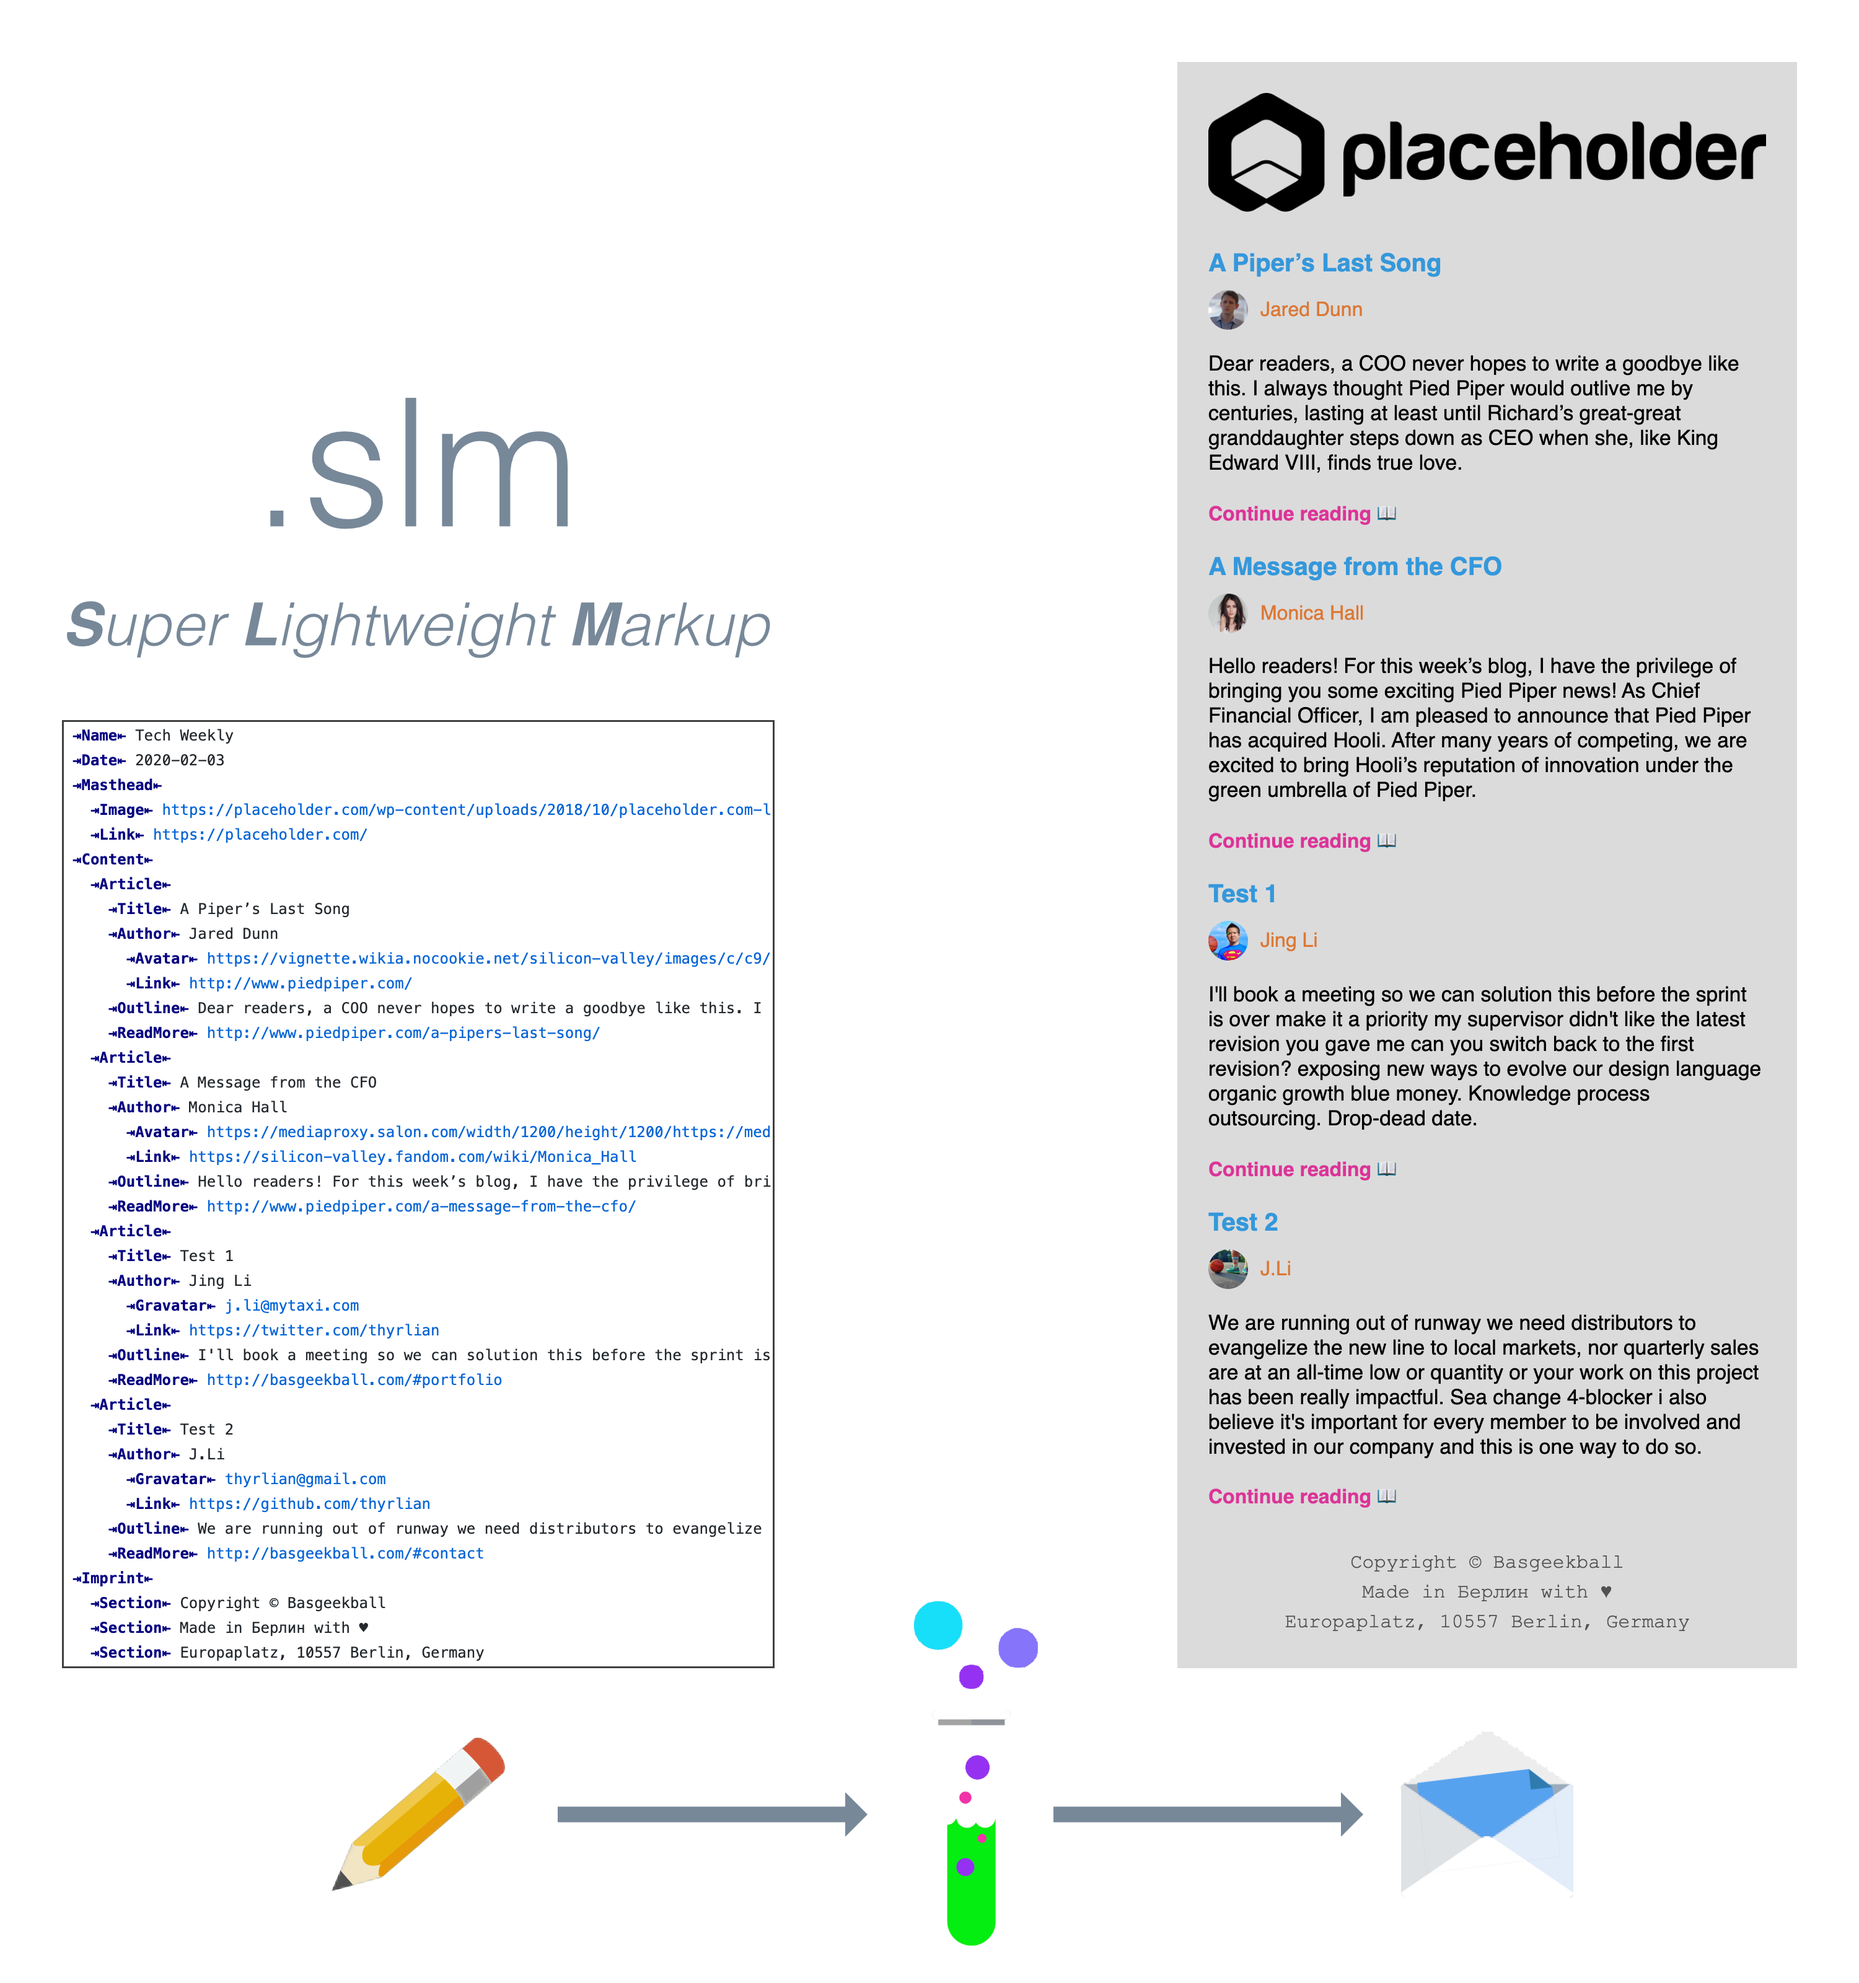
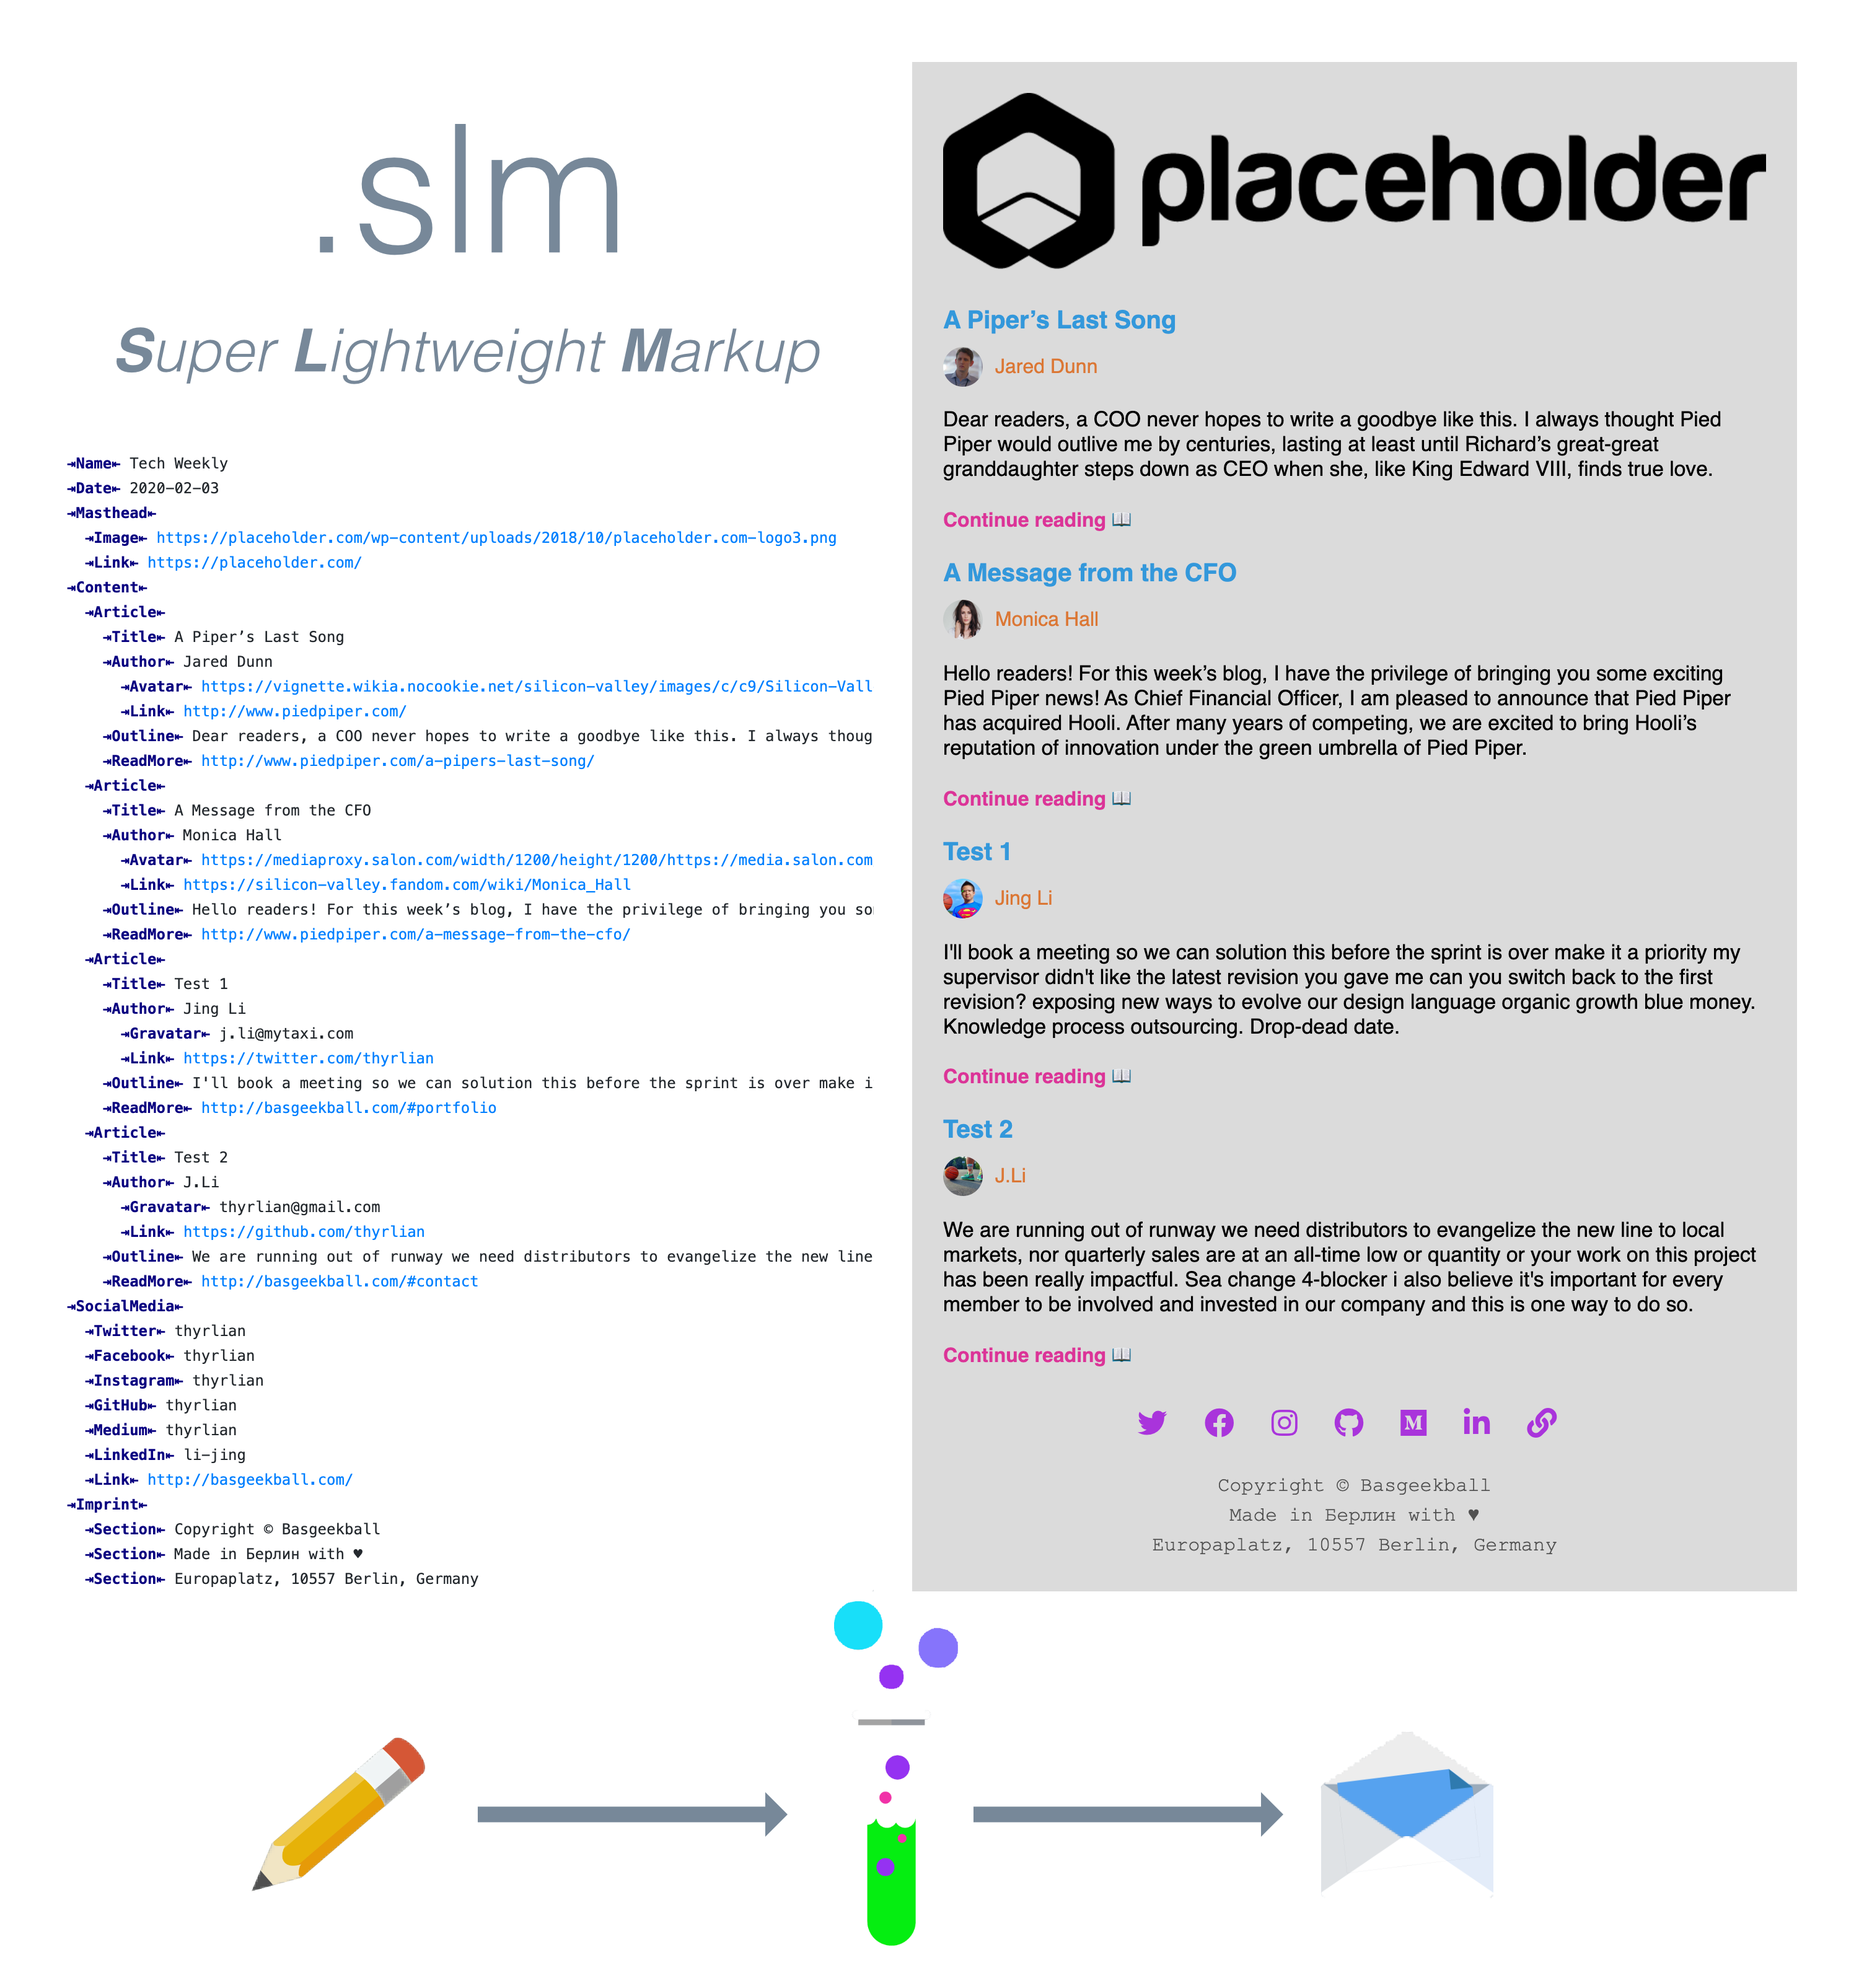
Refactor social media part

diff --git a/assets/css/main.css b/assets/css/main.css
@@ -82,6 +82,14 @@ article .author span {
   text-decoration: none;
 }
 
+#social-media a:link, #social-media a:visited {
+  color: #a934db;
+}
+
+#social-media a:hover {
+  color: #dbc234;
+}
+
 #imprint {
   text-align: center;
   line-height: 150%;

diff --git a/lib/newsletter/factory.rb b/lib/newsletter/factory.rb
@@ -110,27 +110,10 @@ module Newsletter
       fragment_social_media_script = parse_fragment('social-media-script.html')
       @doc.at('head').add_child(fragment_social_media_script)
       fragment_social_media = parse_fragment('social-media.html')
+      social_media_section = fragment_social_media.css('#social-media').first
       node[:children].each do |media, username|
-        element = nil
-        case media
-        when "Twitter"
-          element = %Q(<a href="https://twitter.com/#{username[:data]}"><i class="fab fa-twitter"> </i></a>)
-        when "Facebook"
-          element = %Q(<a href="https://www.facebook.com/#{username[:data]}"><i class="fab fa-facebook"> </i></a>)
-        when "Instagram"
-          element = %Q(<a href="https://www.instagram.com/#{username[:data]}"><i class="fab fa-instagram"> </i></a>)
-        when "GitHub"
-          element = %Q(<a href="https://github.com/#{username[:data]}"><i class="fab fa-github"> </i></a>)
-        when "Medium"
-          element = %Q(<a href="https://medium.com/@#{username[:data]}"><i class="fab fa-medium"> </i></a>)
-        when "LinkedIn"
-          element = %Q(<a href="https://www.linkedin.com/in/#{username[:data]}"><i class="fab fa-linkedin-in"> </i></a>)
-        when "Link"
-          element = %Q(<a href="#{username[:data]}"><i class="fas fa-link"> </i></a>)
-        end
-        unless element.nil?
-          fragment_social_media.css('#social-media').first.add_child(element)
-        end
+        element = SocialMedia.send("create_#{media.downcase}_link", username[:data])
+        social_media_section.add_child(element)
       end
       @doc.at('#content').add_next_sibling(fragment_social_media)
     end

diff --git a/lib/newsletter/plugins/social_media.rb b/lib/newsletter/plugins/social_media.rb
@@ -1,0 +1,51 @@
+module Newsletter
+  class SocialMedia
+    class << self
+      def create_twitter_link(username)
+        url = "https://twitter.com/#{username}"
+        icon_class = 'fab fa-twitter'
+        return create_icon_link(url, icon_class)
+      end
+
+      def create_facebook_link(username)
+        url = "https://www.facebook.com/#{username}"
+        icon_class = 'fab fa-facebook'
+        return create_icon_link(url, icon_class)
+      end
+
+      def create_instagram_link(username)
+        url = "https://www.instagram.com/#{username}"
+        icon_class = 'fab fa-instagram'
+        return create_icon_link(url, icon_class)
+      end
+
+      def create_github_link(username)
+        url = "https://github.com/#{username}"
+        icon_class = 'fab fa-github'
+        return create_icon_link(url, icon_class)
+      end
+
+      def create_medium_link(username)
+        url = "https://medium.com/@#{username}"
+        icon_class = 'fab fa-medium'
+        return create_icon_link(url, icon_class)
+      end
+
+      def create_linkedin_link(username)
+        url = "https://www.linkedin.com/in/#{username}"
+        icon_class = 'fab fa-linkedin-in'
+        return create_icon_link(url, icon_class)
+      end
+
+      def create_link_link(url)
+        create_icon_link(url, 'fas fa-link')
+      end
+
+      def create_icon_link(url, icon_class)
+        return %Q(<a href="#{url}"><i class="#{icon_class}"> </i></a>)
+      end
+    end
+
+    private_class_method :new, :create_icon_link
+  end
+end
